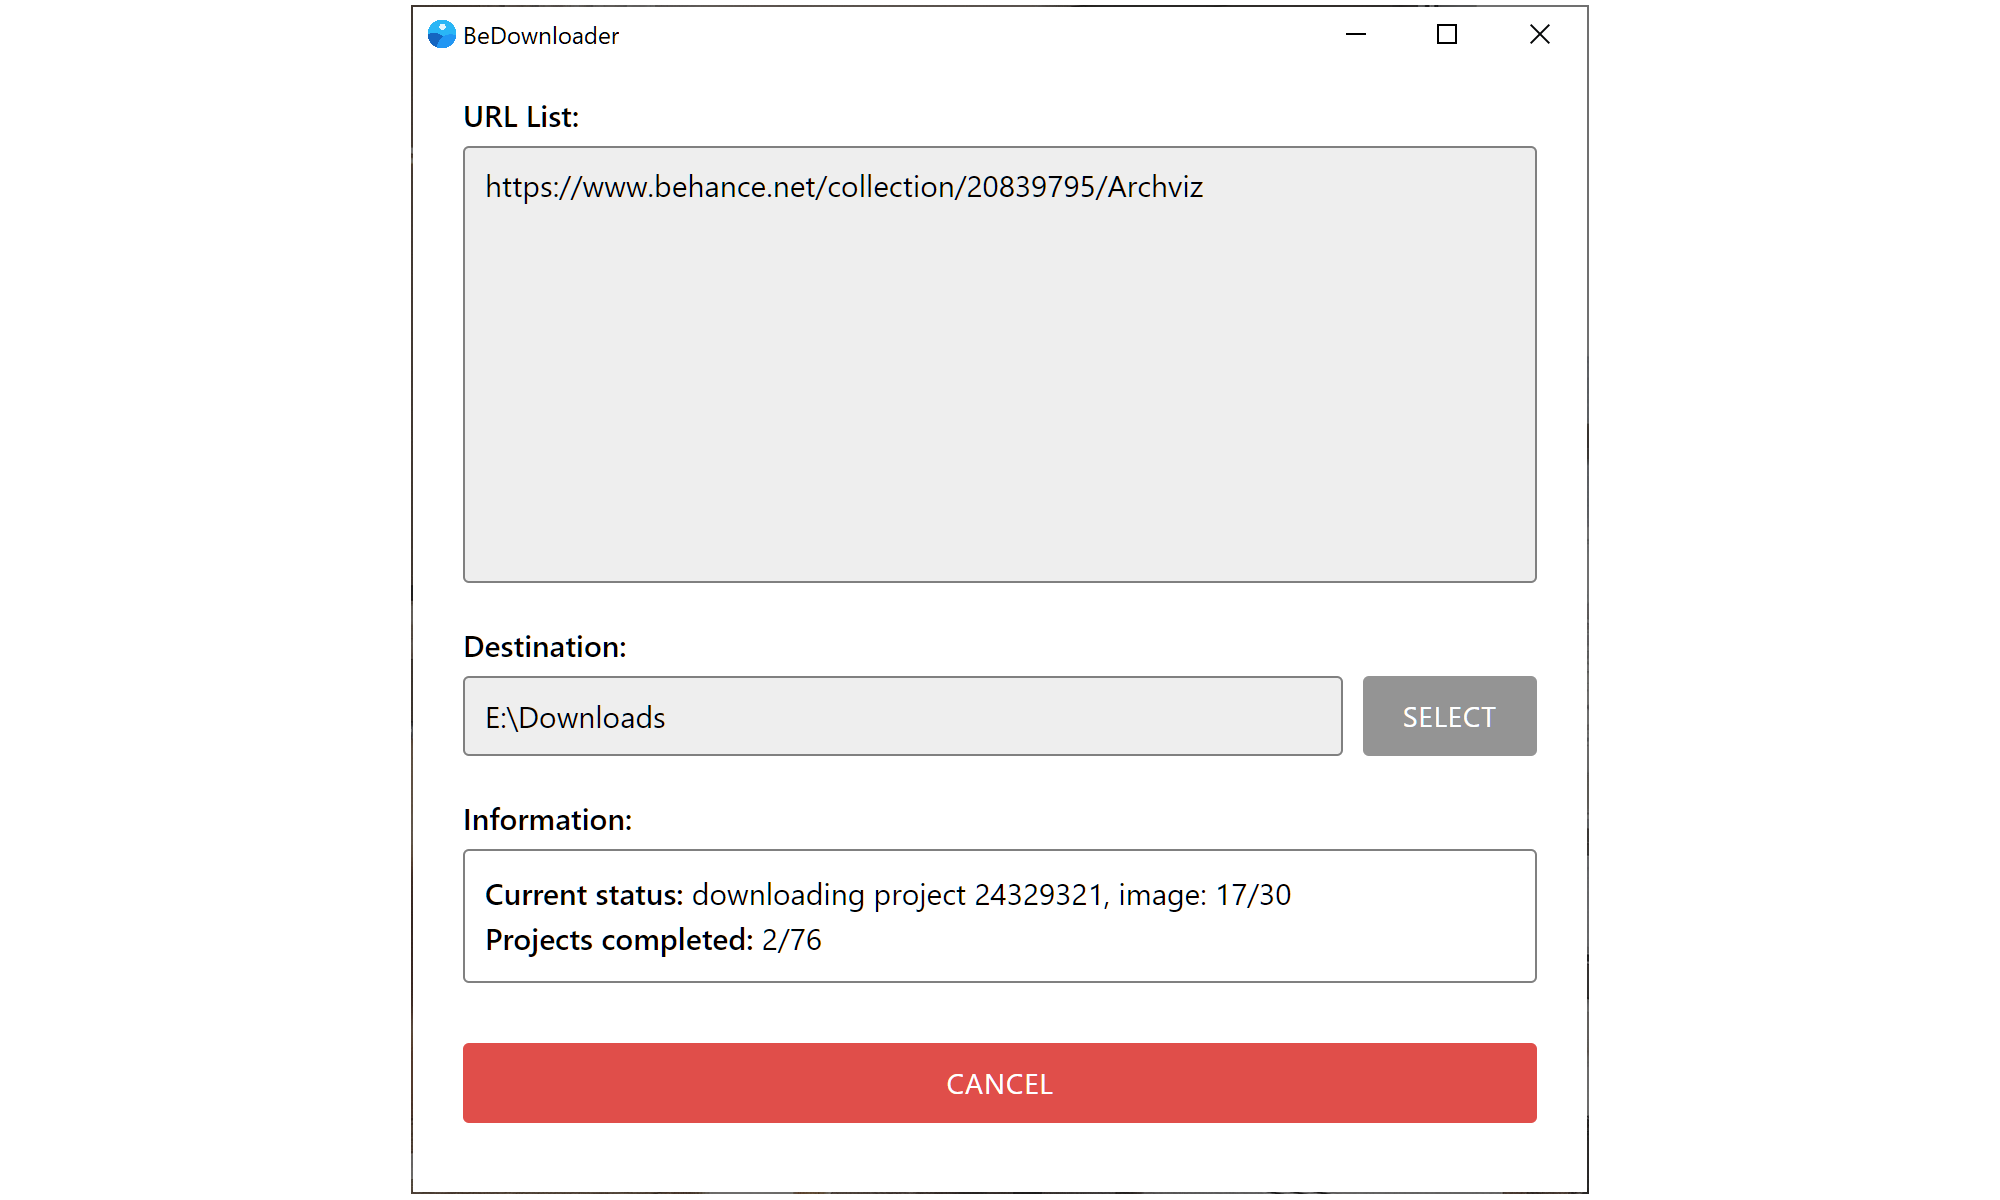
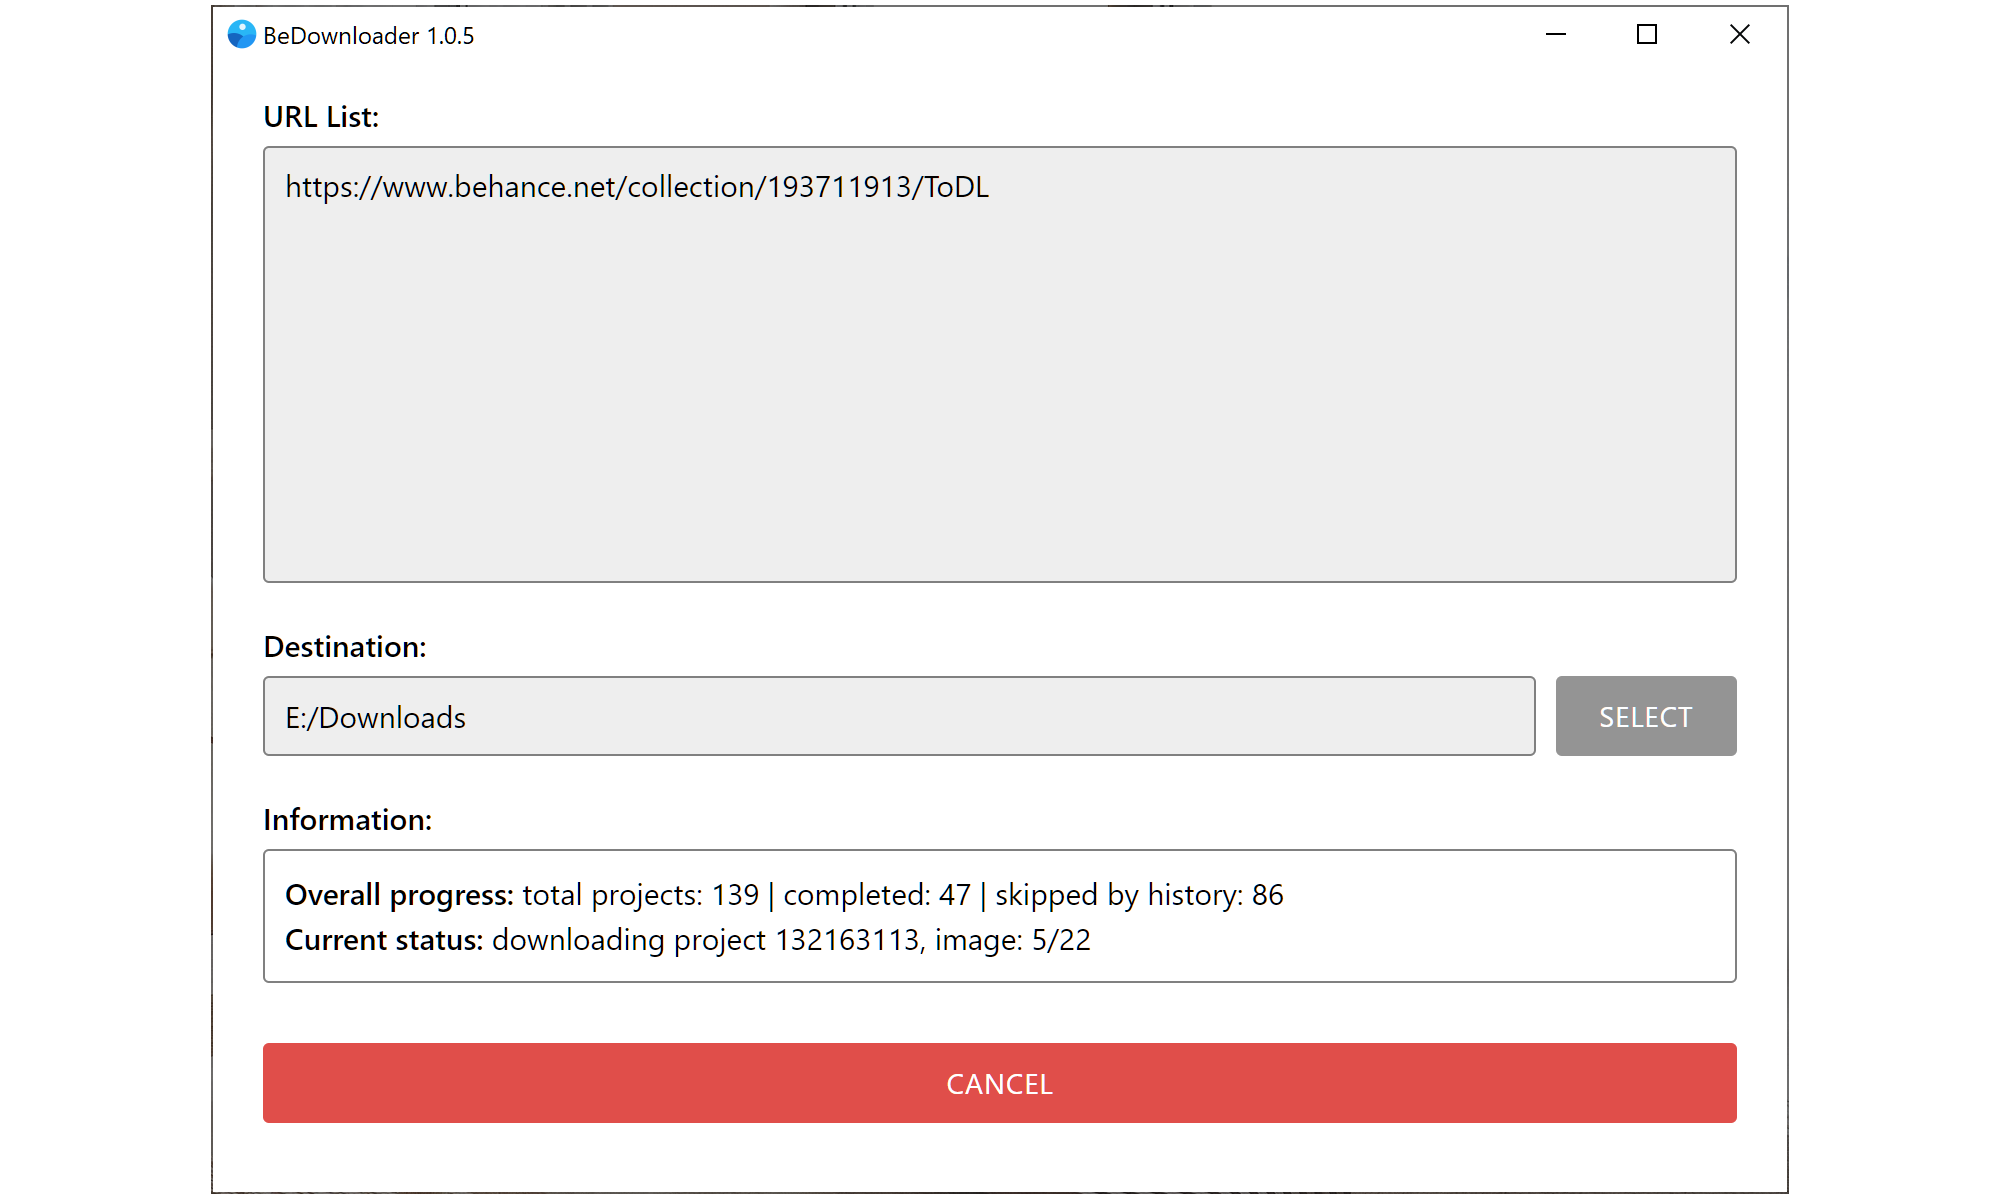
v1.0.5

diff --git a/app/js/config.js b/app/js/config.js
@@ -7,11 +7,16 @@ const { createDirIfNotExists } = require('./utils');
 
 const isDevMode = false;
 
+const appFolderName = '.bedownloader';
+
 const config = {
   isMac: process.platform === 'darwin',
-  settingsFolder: path.join(os.homedir(), '.bedownloader'),
-  settingsFile: path.join(os.homedir(), '.bedownloader', 'config.ini'),
-  downloadFolder: path.join(os.homedir(), '.bedownloader', 'downloads'),
+  settingsFolder: path.join(os.homedir(), appFolderName),
+  settingsFile: path.join(os.homedir(), appFolderName, 'config.ini'),
+  downloadFolder: path.join(os.homedir(), appFolderName, 'downloads'),
+  historyFile: path.join(os.homedir(), appFolderName, 'history.txt'),
+  historyList: [],
+  skipProjectsByHistory: true,
   inMoodboardTimeout: 10000,
   inProjectTimeout: 5000,
   betweenProjectsDelay: 1000,
@@ -29,6 +34,7 @@ function loadConfig() {
     const { main } = ini.parse(fs.readFileSync(config.settingsFile, 'utf-8'));
     if (main) {
       config.downloadFolder = main.downloadFolder;
+      config.skipProjectsByHistory = main.skipProjectsByHistory;
       config.inMoodboardTimeout = main.inMoodboardTimeout;
       config.inProjectTimeout = main.inProjectTimeout;
       config.betweenProjectsDelay = main.betweenProjectsDelay;
@@ -43,23 +49,24 @@ function saveConfig() {
   createDirIfNotExists(config.settingsFolder);
   const configToSave = {
     downloadFolder: config.downloadFolder,
+    skipProjectsByHistory: config.skipProjectsByHistory,
     inMoodboardTimeout: config.inMoodboardTimeout,
     inProjectTimeout: config.inProjectTimeout,
     betweenProjectsDelay: config.betweenProjectsDelay,
-    betweenImagesDelay: config.betweenImagesDelay
+    betweenImagesDelay: config.betweenImagesDelay,
   };
   fs.writeFileSync(config.settingsFile, ini.stringify(configToSave, { section: 'main' }));
 }
 
 function getPuppeteerSettings() {
-  const executablePath = './.cache/puppeteer/chrome/win64-1108766/chrome-win/chrome.exe';
+  const chrome = './.cache/puppeteer/chrome/win64-1108766/chrome-win/chrome.exe';
 
   if (isDevMode) {
     return {
       args: [],
       defaultViewport: null,
       headless: false,
-      executablePath,
+      executablePath: chrome,
     };
   }
 
@@ -67,13 +74,13 @@ function getPuppeteerSettings() {
     args: ['--start-maximized'],
     defaultViewport: { width: 1920, height: 1080 },
     headless: true,
-    executablePath,
+    executablePath: chrome,
   };
 }
 
 function getElectronSettings() {
   return {
-    title: 'BeDownloader',
+    title: 'BeDownloader 1.0.5',
     width: 800,
     height: 600,
     icon: './app/img/icons/Icon_512x512.png',

diff --git a/app/js/puppeteer.js b/app/js/puppeteer.js
@@ -7,10 +7,14 @@ const {
   convertToLatinizedKebab,
   createDirIfNotExists,
   downloadFile,
-  saveObjectIntoImageExif
+  saveObjectIntoImageExif,
+  readFileToArray,
+  writeArrayToFile
 } = require('./utils');
 
+
 const reqImages = [];
+let skippedByHistory = 0;
 
 async function interceptImageRequests() {
   const { page } = config;
@@ -88,9 +92,12 @@ async function getMoodboardLinks(url) {
 }
 
 async function generateProjectsList() {
-  const { userUrls } = config;
+  const { userUrls, historyFile, skipProjectsByHistory } = config;
+
+  config.historyList = readFileToArray(historyFile);
 
   let projects = [];
+  skippedByHistory = 0;
 
   for (const url of userUrls) {
     if (url.includes('behance.net/collection/')) {
@@ -99,12 +106,21 @@ async function generateProjectsList() {
     } else {
       projects.push(url);
     }
-
-    sendToRenderer('completed:update', { done: 0, total: projects.length });
+    sendToRenderer('completed:update', {
+      done: 0, total: projects.length, skip: 0
+    });
   }
 
-  config.projects = projects;
-  console.log(config.projects);
+  if (skipProjectsByHistory) {
+    config.projects = projects.filter((item) => !config.historyList.includes(item));
+  } else {
+    config.projects = projects;
+  }
+
+  skippedByHistory = projects.length - config.projects.length;
+  sendToRenderer('completed:update', {
+    done: 0, total: projects.length, skip: skippedByHistory
+  });
 }
 
 async function parseProjectData(url) {
@@ -215,7 +231,7 @@ async function downloadProjects() {
     }
 
     const projectData = await getProjectData(project);
-    const { images, id } = projectData;
+    const { id, url, images } = projectData;
 
     console.log(images);
 
@@ -241,12 +257,23 @@ async function downloadProjects() {
       projectsCompleted += 1;
       sendToRenderer('completed:update', {
         done: projectsCompleted,
-        total: projects.length
+        total: projects.length + skippedByHistory,
+        skip: skippedByHistory
       });
     }
+
+    if (!config.historyList.includes(url)) {
+      config.historyList.push(url);
+      writeArrayToFile(config.historyFile, config.historyList);
+    }
+
   }
 
-  if (!config.isAborted) {
+  if (projects.length === 0) {
+    sendToRenderer('task:skipped', null);
+  }
+
+  if (projects.length !== 0 && !config.isAborted) {
     sendToRenderer('task:done', null);
   }
 }

diff --git a/app/js/renderer.js b/app/js/renderer.js
@@ -30,12 +30,15 @@ button.addEventListener('click', (e) => {
     updateUiAsReady();
   } else {
     const dest = destInput.value.replace(/\\+/g, '/');
-    const regex = /.net\/gallery\/|.net\/collection\//g;
+    const regex = /.net\/gallery\/|.net\/collection\//;
     const urls = urlsInput.value.split('\n').filter((item) => regex.test(item));
 
     if (urls.length === 0) {
       infoStatus.innerHTML = '[error] list is empty';
     } else {
+      infoCompleted.innerHTML = `
+        total projects: ... | completed: ... | skipped by history: ...
+      `;
       infoStatus.innerHTML = 'launching headless browser ...';
       ipcRenderer.send('task:start', { dest, urls });
       updateUiAsRunning();
@@ -65,8 +68,10 @@ ipcRenderer.on('moodboard:scrolling', (e, { id }) => {
   infoStatus.innerHTML = `scrolling moodboard ${id} to get all projects ...`;
 });
 
-ipcRenderer.on('completed:update', (e, { done, total }) => {
-  infoCompleted.innerHTML = `${done}/${total}`;
+ipcRenderer.on('completed:update', (e, { done, total, skip }) => {
+  infoCompleted.innerHTML = `
+    total projects: ${total} | completed: ${done} | skipped by history: ${skip}
+  `;
 });
 
 ipcRenderer.on('project:loading', (e, { id }) => {
@@ -79,5 +84,10 @@ ipcRenderer.on('project:download', (e, { id, current, total }) => {
 
 ipcRenderer.on('task:done', () => {
   infoStatus.innerHTML = 'all images were downloaded successfully!';
+  updateUiAsReady();
+});
+
+ipcRenderer.on('task:skipped', () => {
+  infoStatus.innerHTML = '[error] no projects to download (all skipped by download history)';
   updateUiAsReady();
 });

diff --git a/main.js b/main.js
@@ -2,12 +2,7 @@ const puppeteer = require('puppeteer');
 const { app, BrowserWindow, ipcMain, dialog } = require('electron');
 
 const { config, getPuppeteerSettings, getElectronSettings, saveConfig } = require('./app/js/config');
-
-const {
-  interceptImageRequests,
-  generateProjectsList,
-  downloadProjects,
-} = require('./app/js/puppeteer');
+const { interceptImageRequests, generateProjectsList, downloadProjects } = require('./app/js/puppeteer');
 
 /* ========================================================= */
 /* Puppeteer                                                 */
@@ -21,12 +16,17 @@ async function runPuppeteer() {
   config.browserPID = browser.process().pid;
   config.page = page;
 
-  try {
-    await interceptImageRequests();
-    await generateProjectsList();
-    await downloadProjects();
-    browser.close();
-  } catch (err) { /* ignore */ }
+  await interceptImageRequests();
+  await generateProjectsList();
+  await downloadProjects();
+  browser.close();
+
+  // try {
+  //   await interceptImageRequests();
+  //   await generateProjectsList();
+  //   await downloadProjects();
+  //   browser.close();
+  // } catch (err) { /* ignore */ }
 }
 
 /* ========================================================= */
@@ -50,7 +50,6 @@ app.on('ready', () => {
 });
 
 app.on('window-all-closed', () => {
-  saveConfig();
   if (!config.isMac) {
     app.quit();
   }
@@ -71,6 +70,7 @@ ipcMain.on('task:start', (e, { dest, urls }) => {
   config.isAborted = false;
   config.userUrls = urls;
   config.downloadFolder = dest;
+  saveConfig();
   runPuppeteer();
 });
 

diff --git a/app/js/utils.js b/app/js/utils.js
@@ -3,6 +3,8 @@ const fetch = require('node-fetch');
 const piexif = require('piexifjs');
 const { transliterate } = require('transliteration');
 
+const breakLine = '\r\n';
+
 function addZeroForNumberLessTen(number) {
   return number.toLocaleString('en-US', { minimumIntegerDigits: 2 });
 }
@@ -66,6 +68,24 @@ function saveObjectIntoImageExif(obj, filepath) {
   }
 }
 
+function readFileToArray(filename) {
+  try {
+    const fileContent = fs.readFileSync(filename, 'utf-8');
+    const linesArray = fileContent.trim().split(breakLine);
+    return linesArray;
+  } catch (error) {
+    return [];
+  }
+}
+
+function writeArrayToFile(filename, array) {
+  try {
+    const lines = array.join(breakLine);
+    fs.writeFileSync(filename, lines);
+  } catch (error) { /* ignore */ }
+
+}
+
 module.exports.addZeroForNumberLessTen = addZeroForNumberLessTen;
 module.exports.replaceNonEnglishBySymbol = replaceNonEnglishBySymbol;
 module.exports.removeMultipleDashes = removeMultipleDashes;
@@ -74,3 +94,5 @@ module.exports.convertToLatinizedKebab = convertToLatinizedKebab;
 module.exports.createDirIfNotExists = createDirIfNotExists;
 module.exports.downloadFile = downloadFile;
 module.exports.saveObjectIntoImageExif = saveObjectIntoImageExif;
+module.exports.readFileToArray = readFileToArray;
+module.exports.writeArrayToFile = writeArrayToFile;

diff --git a/app/index.html b/app/index.html
@@ -22,19 +22,18 @@
           <input id="destination-input" type="text" placeholder="Folder to save images..."></input>
           <button class="btn" id="destination-btn">Select</button>
         </div>
-
       </section>
 
       <section class="information">
         <p class="label"><strong>Information:</strong></p>
         <div class="information-wrapper">
           <p class="information-item">
-            <span class="information-title">Current status:</span>
-            <span class="information-content" id="information-status" >none</span>
+            <span class="information-title">Overall progress:</span>
+            <span class="information-content" id="information-completed">none</span>
           </p>
           <p class="information-item">
-            <span class="information-title">Projects completed:</span>
-            <span class="information-content" id="information-completed">none</span>
+            <span class="information-title">Current status:</span>
+            <span class="information-content" id="information-status" >none</span>
           </p>
         </div>
       </section>

diff --git a/app/js/testing.js b/app/js/testing.js
@@ -1,0 +1,5 @@
+const urlsInput = 'https://www.behance.net/gallery/166160265/Koala-House\nhttps://www.behance.net/gallery/155176025/Private-Offices\nhttps://www.behance.net/gallery/151226985/_';
+
+const regex = /.net\/gallery\/|.net\/collection\//;
+const urls = urlsInput.split('\n').filter((item) => regex.test(item));
+console.log(urls);

diff --git a/README.md b/README.md
@@ -7,11 +7,17 @@ Written with Electron, Puppeteer and other JS libraries.
 - Downloads list of urls (projects and moodboards supported).
 - Downloads full-size original images if it available.
 - Writes information about project into metadata (only for JPEG files).
+- Keeps history for all downloaded projects.
+- Has the ability to skip downloading a project if its URL is found in the history.
 - Portable app, don't need installation.
 
 ## Usage
 - Download portable app and run it.  
 - Or download repository, install all dependencies, then run 'npm start' (for JS developers).
+
+## Notes
+- App settings and download history stored in {UserFolder}/.bedownloader  
+- Skipping projects by download history can be disabled in config.ini
 
 ## Screenshot
 ![screenshot](screenshots/main.png)
@@ -20,4 +26,4 @@ Written with Electron, Puppeteer and other JS libraries.
 - Advanced settings in UI.
 - Support for download all projects from profiles.
 - Support for download embeded 360-degree panoramas from kuula.co.
-- History for all downloaded projects and ability to skip projects if it found in history.
+- Mac and Linux versions.
